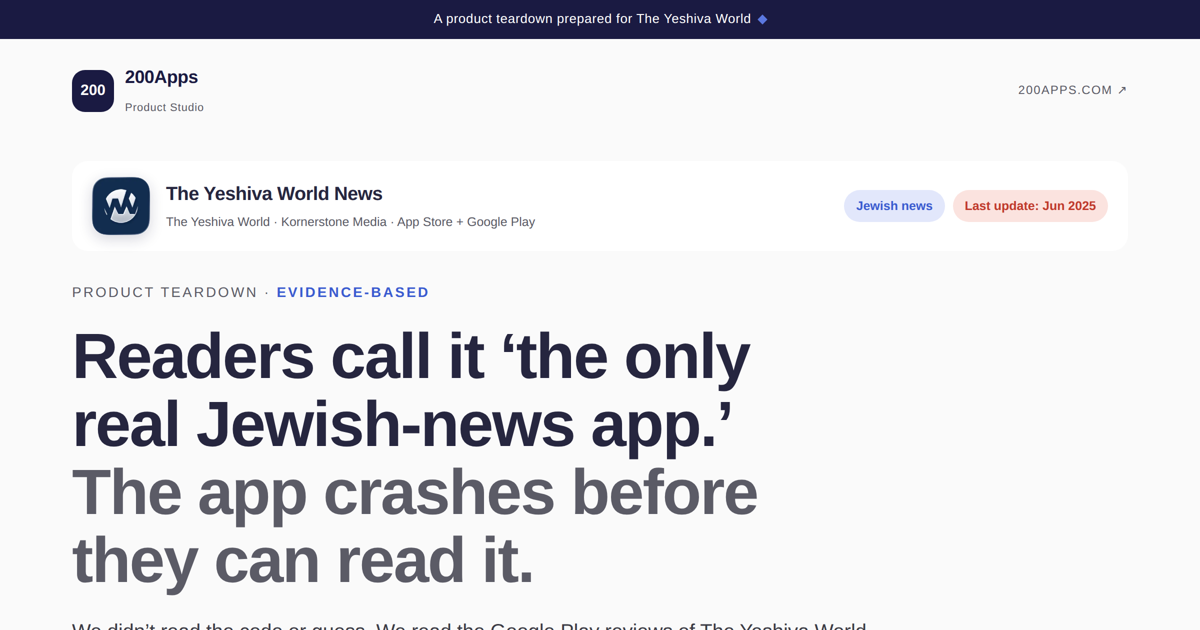
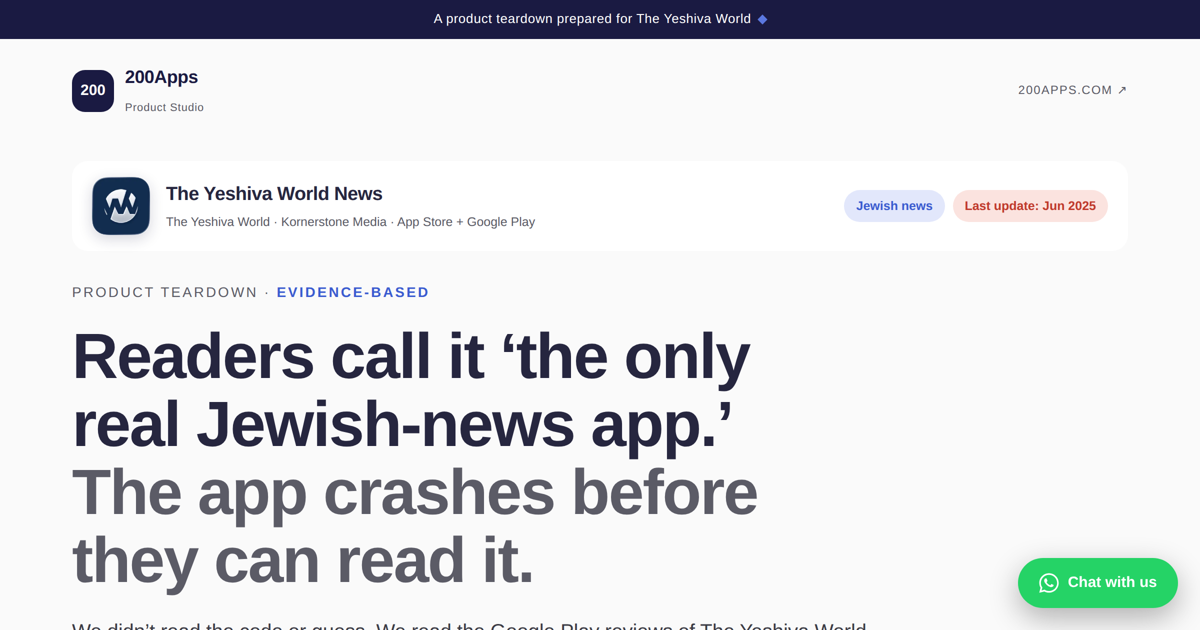
Deploy the-yeshiva-world-news static page

Changed region(s): [[0.8325, 0.8746, 0.9867, 0.9952]]

diff --git a/the-yeshiva-world-news/index.html b/the-yeshiva-world-news/index.html
@@ -3,8 +3,8 @@
 <head>
 <meta charset="UTF-8">
 <meta name="viewport" content="width=device-width, initial-scale=1.0">
-<title>The Yeshiva World News · Product Teardown — 200Apps</title>
-<meta property="og:title" content="The Yeshiva World News · Product Teardown — 200Apps">
+<title>The Yeshiva World News · Product Teardown - 200Apps</title>
+<meta property="og:title" content="The Yeshiva World News · Product Teardown - 200Apps">
 <meta property="og:description" content="Readers love the news, but The Yeshiva World app crashes and won't load. An evidence-based product teardown by 200Apps.">
 <meta property="og:image" content="https://insights.200apps.com/the-yeshiva-world-news/og-image.png">
 <meta property="og:url" content="https://insights.200apps.com/the-yeshiva-world-news/">
@@ -122,6 +122,10 @@ h2{font-size:clamp(27px,4vw,44px);font-weight:800;letter-spacing:-1px;line-heigh
 .pill.primary .arr{color:#dfe6ff;}
 .mid-cta{display:flex;align-items:center;justify-content:center;gap:20px;flex-wrap:wrap;background:var(--blue-soft);border:1px solid var(--tint);border-radius:20px;padding:24px 30px;text-align:center;}
 .mid-cta .t{font-size:19px;font-weight:700;color:var(--navy);}
+.sticky-cta{position:fixed;bottom:22px;right:22px;z-index:200;display:inline-flex;align-items:center;gap:9px;background:#25D366;color:#fff;border-radius:40px;padding:13px 21px;font-weight:700;font-size:15px;text-decoration:none;box-shadow:0 10px 30px rgba(0,0,0,.3);transition:transform .2s;}
+.sticky-cta:hover{transform:translateY(-2px);}
+.sticky-cta svg{width:20px;height:20px;flex:none;}
+@media print{.sticky-cta{display:none;}}
 footer{margin-top:80px;background:var(--bone-2);padding:40px 0 28px;}
 .foot-top{display:flex;align-items:center;justify-content:space-between;flex-wrap:wrap;gap:18px;padding-bottom:28px;border-bottom:1px solid var(--line);}
 .foot-links{font-size:12.5px;letter-spacing:1px;text-transform:uppercase;color:var(--muted);}
@@ -150,6 +154,7 @@ footer{margin-top:80px;background:var(--bone-2);padding:40px 0 28px;}
 </head>
 <body>
 <div class="ribbon mono">A product teardown prepared for The Yeshiva World<span class="mk"></span></div>
+<a class="sticky-cta" href="https://wa.me/972553192012?text=Hi, I saw the 200Apps analysis of our app and would love to talk." target="_blank" rel="noopener"><svg viewBox="0 0 32 32" fill="currentColor" aria-hidden="true"><path d="M16 .4C7.4.4.5 7.3.5 15.9c0 2.8.7 5.4 2 7.7L.4 31.6l8.2-2.1c2.2 1.2 4.8 1.9 7.4 1.9 8.6 0 15.5-6.9 15.5-15.5S24.6.4 16 .4zm0 28.3c-2.4 0-4.6-.6-6.5-1.8l-.5-.3-4.9 1.3 1.3-4.8-.3-.5C3.6 20.8 3 18.4 3 15.9 3 8.7 8.8 2.9 16 2.9S29 8.7 29 15.9 23.2 28.7 16 28.7zm7.1-9.7c-.4-.2-2.3-1.1-2.6-1.3-.4-.1-.6-.2-.9.2-.3.4-1 1.3-1.2 1.5-.2.2-.4.3-.8.1-.4-.2-1.6-.6-3.1-1.9-1.1-1-1.9-2.3-2.2-2.7-.2-.4 0-.6.2-.8.2-.2.4-.4.5-.7.2-.2.2-.4.4-.6.1-.3 0-.5 0-.7-.1-.2-.9-2.1-1.2-2.9-.3-.8-.6-.7-.9-.7h-.7c-.2 0-.6.1-1 .5-.3.4-1.3 1.3-1.3 3.1 0 1.8 1.3 3.6 1.5 3.8.2.2 2.6 4 6.3 5.6.9.4 1.6.6 2.1.8.9.3 1.7.2 2.3.1.7-.1 2.3-.9 2.6-1.8.3-.9.3-1.7.2-1.8z"/></svg>Chat with us</a>
 <div class="wrap">
   <nav>
     <a class="logo" href="https://www.200apps.com" target="_blank" rel="noopener"><span class="badge"><span>200</span></span><span class="wm"><b>200Apps</b><small>Product Studio</small></span></a>
@@ -163,7 +168,7 @@ footer{margin-top:80px;background:var(--bone-2);padding:40px 0 28px;}
   <header class="hero">
     <div class="eyebrow">Product teardown · <b>Evidence-based</b></div>
     <h1>Readers call it &lsquo;the only real Jewish-news app.&rsquo;<br><span class="dim">The app crashes before they can read it.</span></h1>
-    <p class="lead">We didn&rsquo;t read the code or guess. We read the Google Play reviews of The Yeshiva World News app and mapped what readers themselves write &mdash; <b>separating the app from the editorial</b>. On the technology, one pattern repeats for a decade: <b>the app crashes on open, shows a blank screen, and articles won&rsquo;t load.</b> Readers still call it &lsquo;the only real app with only Jewish news&rsquo; &mdash; and in May 2026 one wrote: &lsquo;great news, but the actual app needs some serious work.&rsquo;</p>
+    <p class="lead">We didn&rsquo;t read the code or guess. We read the Google Play reviews of The Yeshiva World News app and mapped what readers themselves write - <b>separating the app from the editorial</b>. On the technology, one pattern repeats for a decade: <b>the app crashes on open, shows a blank screen, and articles won&rsquo;t load.</b> Readers still call it &lsquo;the only real app with only Jewish news&rsquo; - and in May 2026 one wrote: &lsquo;great news, but the actual app needs some serious work.&rsquo;</p>
     <div class="metastrip"><div><div class="k">Last app update</div><div class="v warn">Jun 2025</div></div><div><div class="k">Blank-screen reports since</div><div class="v warn">2013</div></div><div><div class="k">The news itself</div><div class="v good">Trusted</div></div></div>
   </header>
 </div>
@@ -171,7 +176,7 @@ footer{margin-top:80px;background:var(--bone-2);padding:40px 0 28px;}
 <div class="wrap"><section class="rv">
   <div class="sec-label"><span class="n">00</span> The problem</div>
   <h2>A newsroom people rely on, on an app that won&rsquo;t open.</h2>
-  <p class="sec-sub">Readers are clear: the news is why they&rsquo;re here &mdash; &lsquo;the only real app with only Jewish news.&rsquo; But on the technology, one pattern repeats for ten years: the app crashes on launch, opens to a blank screen, and articles fail to load. It&rsquo;s not a one-off &mdash; reviewers note &lsquo;saw it on other reviews too,&rsquo; and a May 2026 review still reads &lsquo;crashes, fails to load, and very poor search engine.&rsquo;</p>
+  <p class="sec-sub">Readers are clear: the news is why they&rsquo;re here - &lsquo;the only real app with only Jewish news.&rsquo; But on the technology, one pattern repeats for ten years: the app crashes on launch, opens to a blank screen, and articles fail to load. It&rsquo;s not a one-off - reviewers note &lsquo;saw it on other reviews too,&rsquo; and a May 2026 review still reads &lsquo;crashes, fails to load, and very poor search engine.&rsquo;</p>
   <div class="pgap">
     <div class="col good"><div class="os">The newsroom</div><div class="ver">Trusted</div><div class="since">Updated by the minute</div><div><span class="badge">&lsquo;The only real Jewish-news app&rsquo;</span></div></div>
     <div class="col warnbad"><div class="os">The app</div><div class="ver">Won&rsquo;t open</div><div class="since">Blank screens since 2013</div><div><span class="badge">Last update Jun 2025</span></div></div>
@@ -181,33 +186,33 @@ footer{margin-top:80px;background:var(--bone-2);padding:40px 0 28px;}
 <div class="wrap"><section class="rv">
   <div class="sec-label"><span class="n">01</span> What readers say</div>
   <h2>The evidence, word for word.</h2>
-  <p class="sec-sub">We grouped the Google Play reviews by theme &mdash; and kept strictly to the app, not the editorial. These are real readers who want the news and can&rsquo;t reach it:</p>
-  <div class="ev-grid"><div class="theme"><h4>Crashes on open / blank screen</h4><div class="quote"><div class="txt">"Crashes every time I try to enter app saw it on other reviews too you better fix this problem"</div><div class="meta"><span>Google Play</span><span>Apr 2020 · 24 helpful</span></div></div><div class="quote"><div class="txt">"Stopped working with latest update. The app opens a blank screen. Would love for this to be fixed"</div><div class="meta"><span>Google Play</span><span>Nov 2017</span></div></div></div><div class="theme"><h4>Articles won&rsquo;t load</h4><div class="quote"><div class="txt">"The app fails when accessing a story 75% of the time"</div><div class="meta"><span>Google Play</span><span>May 2021 · 7 helpful</span></div></div><div class="quote"><div class="txt">"App never works properly. The articles never open."</div><div class="meta"><span>Google Play</span><span>May 2022</span></div></div></div><div class="theme"><h4>Loved news, broken app &mdash; still in 2026</h4><div class="quote"><div class="txt">"great news but the actual app needs some serious work. crashes fails to load and very poor search engine..."</div><div class="meta"><span>Google Play</span><span>May 2026</span></div></div><div class="quote"><div class="txt">"the only real appp that has only Jewish news"</div><div class="meta"><span>Google Play</span><span>Jul 2025</span></div></div></div><div class="theme" style="background:var(--navy);color:#fff;display:flex;flex-direction:column;justify-content:center;"><h4 style="color:#fff;">Why these?</h4><p style="font-size:15px;opacity:.95;">We set aside the editorial opinions entirely and kept only the technical reports. What remains is a decade-long pattern: crashes on open, blank screens, articles that won&rsquo;t load, and a search that barely works &mdash; on the one app readers call &lsquo;the only real Jewish-news app.&rsquo; A May 2026 review confirms it&rsquo;s still unresolved.</p></div></div>
+  <p class="sec-sub">We grouped the Google Play reviews by theme - and kept strictly to the app, not the editorial. These are real readers who want the news and can&rsquo;t reach it:</p>
+  <div class="ev-grid"><div class="theme"><h4>Crashes on open / blank screen</h4><div class="quote"><div class="txt">"Crashes every time I try to enter app saw it on other reviews too you better fix this problem"</div><div class="meta"><span>Google Play</span><span>Apr 2020 · 24 helpful</span></div></div><div class="quote"><div class="txt">"Stopped working with latest update. The app opens a blank screen. Would love for this to be fixed"</div><div class="meta"><span>Google Play</span><span>Nov 2017</span></div></div></div><div class="theme"><h4>Articles won&rsquo;t load</h4><div class="quote"><div class="txt">"The app fails when accessing a story 75% of the time"</div><div class="meta"><span>Google Play</span><span>May 2021 · 7 helpful</span></div></div><div class="quote"><div class="txt">"App never works properly. The articles never open."</div><div class="meta"><span>Google Play</span><span>May 2022</span></div></div></div><div class="theme"><h4>Loved news, broken app - still in 2026</h4><div class="quote"><div class="txt">"great news but the actual app needs some serious work. crashes fails to load and very poor search engine..."</div><div class="meta"><span>Google Play</span><span>May 2026</span></div></div><div class="quote"><div class="txt">"the only real appp that has only Jewish news"</div><div class="meta"><span>Google Play</span><span>Jul 2025</span></div></div></div><div class="theme" style="background:var(--navy);color:#fff;display:flex;flex-direction:column;justify-content:center;"><h4 style="color:#fff;">Why these?</h4><p style="font-size:15px;opacity:.95;">We set aside the editorial opinions entirely and kept only the technical reports. What remains is a decade-long pattern: crashes on open, blank screens, articles that won&rsquo;t load, and a search that barely works - on the one app readers call &lsquo;the only real Jewish-news app.&rsquo; A May 2026 review confirms it&rsquo;s still unresolved.</p></div></div>
 </section></div>
 <div class="wrap"><div class="connector"><div class="ln"></div><div class="node"></div><div class="ln"></div></div></div>
 <div class="wrap"><section class="rv">
   <div class="sec-label"><span class="n">02</span> Stability & experience</div>
   <h2>Three upgrades that sit directly on the reviews.</h2>
-  <p class="sec-sub">Each one is anchored in a technical complaint readers repeat &mdash; not the editorial. Where to start:</p>
-  <div class="opp-grid"><div class="opp"><h4>An app that opens, every time</h4><p>A rebuilt, native shell that launches instantly instead of a blank screen &mdash; the single most-repeated complaint across ten years of reviews.</p></div><div class="opp"><h4>Articles that load, search that works</h4><p>Fast, reliable article loading with a real search engine (called out by name in a 2026 review), offline saving, and links that respect community filters.</p></div><div class="opp"><h4>News that reaches readers</h4><p>Push alerts that fire by topic, a clean read with sane ad placement, and the Coffee Room, photos and live blog woven in.</p></div></div>
+  <p class="sec-sub">Each one is anchored in a technical complaint readers repeat - not the editorial. Where to start:</p>
+  <div class="opp-grid"><div class="opp"><h4>An app that opens, every time</h4><p>A rebuilt, native shell that launches instantly instead of a blank screen - the single most-repeated complaint across ten years of reviews.</p></div><div class="opp"><h4>Articles that load, search that works</h4><p>Fast, reliable article loading with a real search engine (called out by name in a 2026 review), offline saving, and links that respect community filters.</p></div><div class="opp"><h4>News that reaches readers</h4><p>Push alerts that fire by topic, a clean read with sane ad placement, and the Coffee Room, photos and live blog woven in.</p></div></div>
 </section></div>
 <div class="wrap"><div class="connector"><div class="ln"></div><div class="node"></div><div class="ln"></div></div></div>
 <div class="wrap"><section class="rv">
   <div class="panel">
     <span class="tag tl">AI-NATIVE · VISION</span>
     <h3 style="font-size:30px;">Where can The Yeshiva World go in the AI era?</h3>
-    <p>A working app is the base. But years of breaking-news coverage are exactly the kind of archive AI turns into a service &mdash; <b>faster to reach, easier to follow</b>.</p>
-    <div class="ai-grid"><div class="ai"><h4>Ask the newsroom</h4><p>Natural-language search across years of coverage &mdash; instantly, instead of a broken search box.</p></div><div class="ai"><h4>A brief built for you</h4><p>A personalized daily digest by the topics each reader follows.</p></div><div class="ai"><h4>Live, summarized</h4><p>AI summaries of the live blog and long threads so readers catch up in seconds.</p></div></div>
+    <p>A working app is the base. But years of breaking-news coverage are exactly the kind of archive AI turns into a service - <b>faster to reach, easier to follow</b>.</p>
+    <div class="ai-grid"><div class="ai"><h4>Ask the newsroom</h4><p>Natural-language search across years of coverage - instantly, instead of a broken search box.</p></div><div class="ai"><h4>A brief built for you</h4><p>A personalized daily digest by the topics each reader follows.</p></div><div class="ai"><h4>Live, summarized</h4><p>AI summaries of the live blog and long threads so readers catch up in seconds.</p></div></div>
     <span class="tag br">200APPS BUILDS AI-NATIVE &#8594;</span>
   </div>
-  <div style="padding-top:28px;"><div class="mid-cta"><span class="t">See the direction?</span><a class="pill primary" href="mailto:hi@200apps.com?subject=The Yeshiva World News app — rebuild"><svg viewBox="0 0 24 24" width="19" height="19" fill="none" stroke="currentColor" stroke-width="2" aria-hidden="true"><rect x="2" y="4" width="20" height="16" rx="2"/><path d="m2 6 10 7L22 6"/></svg>Let&rsquo;s talk about the app <span class="arr">&#8594;</span></a></div></div>
+  <div style="padding-top:28px;"><div class="mid-cta"><span class="t">See the direction?</span><a class="pill primary" href="mailto:hi@200apps.com?subject=The Yeshiva World News app - rebuild"><svg viewBox="0 0 24 24" width="19" height="19" fill="none" stroke="currentColor" stroke-width="2" aria-hidden="true"><rect x="2" y="4" width="20" height="16" rx="2"/><path d="m2 6 10 7L22 6"/></svg>Let&rsquo;s talk about the app <span class="arr">&#8594;</span></a></div></div>
 </section></div>
 <div class="wrap"><div class="connector"><div class="ln"></div><div class="node"></div><div class="ln"></div></div></div>
 <div class="wrap"><section class="rv">
   <div class="sec-label"><span class="n">03</span> What we've built</div>
   <h2>Hebrew and English content apps that live in the stores.</h2>
-  <p class="sec-sub">We build content apps that stay fast, stable and maintained for years &mdash; the exact opposite of a blank screen on launch.</p>
-  <div class="cs-grid"><div class="cs"><img src="assets/icons/torah-live.png" alt="Torah Live"><div><div class="nm">Torah Live</div><div class="ds">A subscription video-streaming app &mdash; tiers, login and sync across devices, including Apple TV. Built to stream reliably and scale.</div></div></div><div class="cs"><img src="assets/icons/koren.png" alt="Koren"><div><div class="nm">Koren</div><div class="ds">The Koren Tefilla app &mdash; a deep content library with meticulous typography and a clean, fast reading experience.</div></div></div><div class="cs"><img src="assets/icons/time4mishna.png" alt="Time4Mishna"><div><div class="nm">Time4Mishna</div><div class="ds">A daily-content program with audio, reminders and progress tracking &mdash; content that arrives on schedule, every day.</div></div></div></div>
+  <p class="sec-sub">We build content apps that stay fast, stable and maintained for years - the exact opposite of a blank screen on launch.</p>
+  <div class="cs-grid"><div class="cs"><img src="assets/icons/torah-live.png" alt="Torah Live"><div><div class="nm">Torah Live</div><div class="ds">A subscription video-streaming app - tiers, login and sync across devices, including Apple TV. Built to stream reliably and scale.</div></div></div><div class="cs"><img src="assets/icons/koren.png" alt="Koren"><div><div class="nm">Koren</div><div class="ds">The Koren Tefilla app - a deep content library with meticulous typography and a clean, fast reading experience.</div></div></div><div class="cs"><img src="assets/icons/pniney.png" alt="Pniney Halacha"><div><div class="nm">Pniney Halacha</div><div class="ds">A Torah content library with smart search, rich navigation and offline mode. Built for fast, reliable reading at scale.</div></div></div></div>
   <div class="clients"><div class="ttl">And more brands already working with us</div><div class="cwall"><img src="assets/clients/c12.png" alt=""><img src="assets/clients/c14.png" alt=""><img src="assets/clients/c11.png" alt=""><img src="assets/clients/c08.png" alt=""><img src="assets/clients/c03.png" alt=""><img src="assets/clients/c10.png" alt=""><img src="assets/clients/c05.png" alt=""><img src="assets/clients/c09.png" alt=""><img src="assets/clients/c01.png" alt=""><img src="assets/clients/c06.png" alt=""><img src="assets/clients/c15.png" alt=""><img src="assets/clients/c04.png" alt=""><img src="assets/clients/c16.png" alt=""><img src="assets/clients/c17.png" alt=""><img src="assets/clients/c18.png" alt=""></div></div>
 </section></div>
 <div class="wrap"><div class="connector"><div class="ln"></div><div class="node"></div><div class="ln"></div></div></div>
@@ -215,9 +220,9 @@ footer{margin-top:80px;background:var(--bone-2);padding:40px 0 28px;}
   <div class="sec-label"><span class="n">04</span> Let's talk</div>
   <div class="panel cta-panel">
     <span class="tag tl">GET STARTED</span>
-    <h3 style="font-size:32px;max-width:24ch;">Not one bug &mdash; a chance to rebuild the app.</h3>
-    <p>A short, no-obligation call &mdash; we&rsquo;ll walk the technical findings and where to start. Not a patch, a rebuild.</p>
-    <div class="cta-row"><a class="pill primary" href="mailto:hi@200apps.com?subject=The Yeshiva World News app — rebuild"><svg viewBox="0 0 24 24" width="19" height="19" fill="none" stroke="currentColor" stroke-width="2" aria-hidden="true"><rect x="2" y="4" width="20" height="16" rx="2"/><path d="m2 6 10 7L22 6"/></svg>Email us about the app <span class="arr">&#8594;</span></a><a class="pill ghost" href="https://wa.me/972544608119">Or WhatsApp</a></div>
+    <h3 style="font-size:32px;max-width:24ch;">Not one bug - a chance to rebuild the app.</h3>
+    <p>A short, no-obligation call - we&rsquo;ll walk the technical findings and where to start. Not a patch, a rebuild.</p>
+    <div class="cta-row"><a class="pill primary" href="mailto:hi@200apps.com?subject=The Yeshiva World News app - rebuild"><svg viewBox="0 0 24 24" width="19" height="19" fill="none" stroke="currentColor" stroke-width="2" aria-hidden="true"><rect x="2" y="4" width="20" height="16" rx="2"/><path d="m2 6 10 7L22 6"/></svg>Email us about the app <span class="arr">&#8594;</span></a><a class="pill ghost" href="https://wa.me/972553192012?text=Hi, I saw the 200Apps analysis of our app and would love to talk." target="_blank" rel="noopener">Or WhatsApp</a></div>
   </div>
 </section></div>
 <footer>
